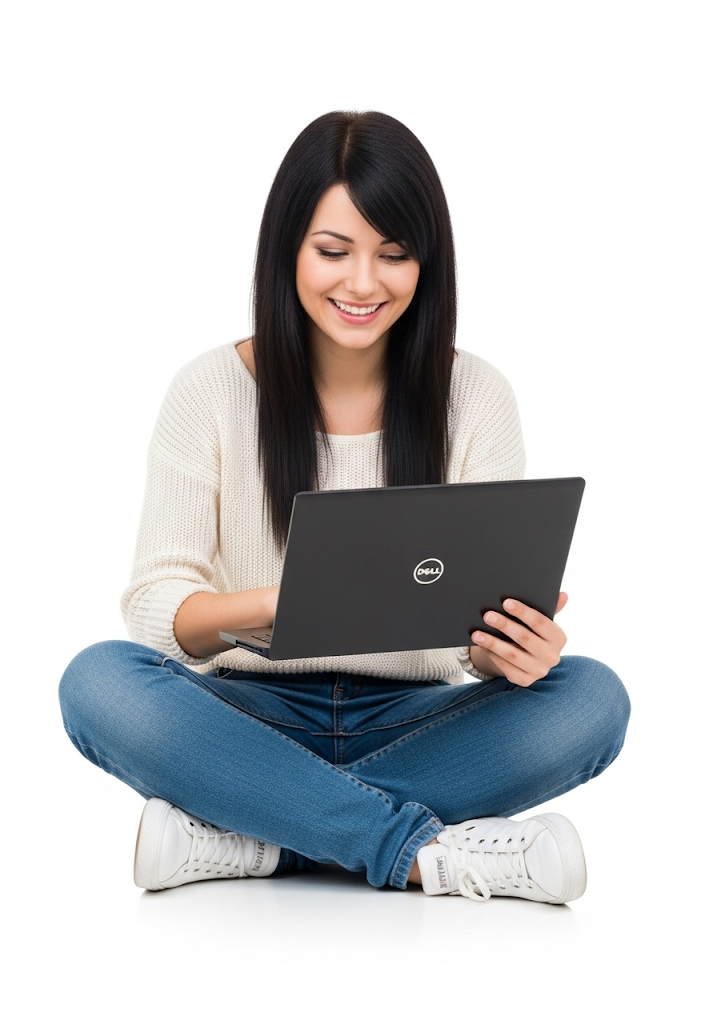
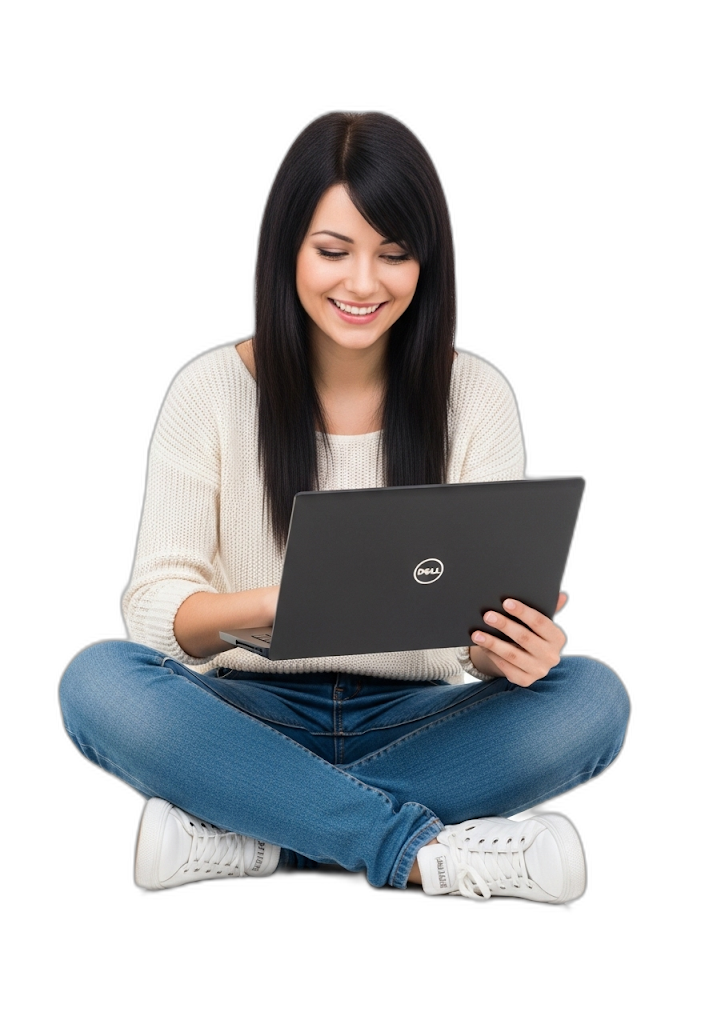
imagens sem fundo

diff --git a/microedi/src/Componentes/Conteudo.jsx b/microedi/src/Componentes/Conteudo.jsx
@@ -36,7 +36,7 @@ export default function Conteudo(){
             </div>
 
         <div className='solucoes-rapidas-wrapper'>
-            <img className='homem-joinha' src="/homem-joinha-com-laptop.jpg" alt="" />
+            <img className='homem-joinha' src="/homem-joinha.png" alt="" />
             <div className='solucoes-items'>
 
                 <div className='solucao-item'>
